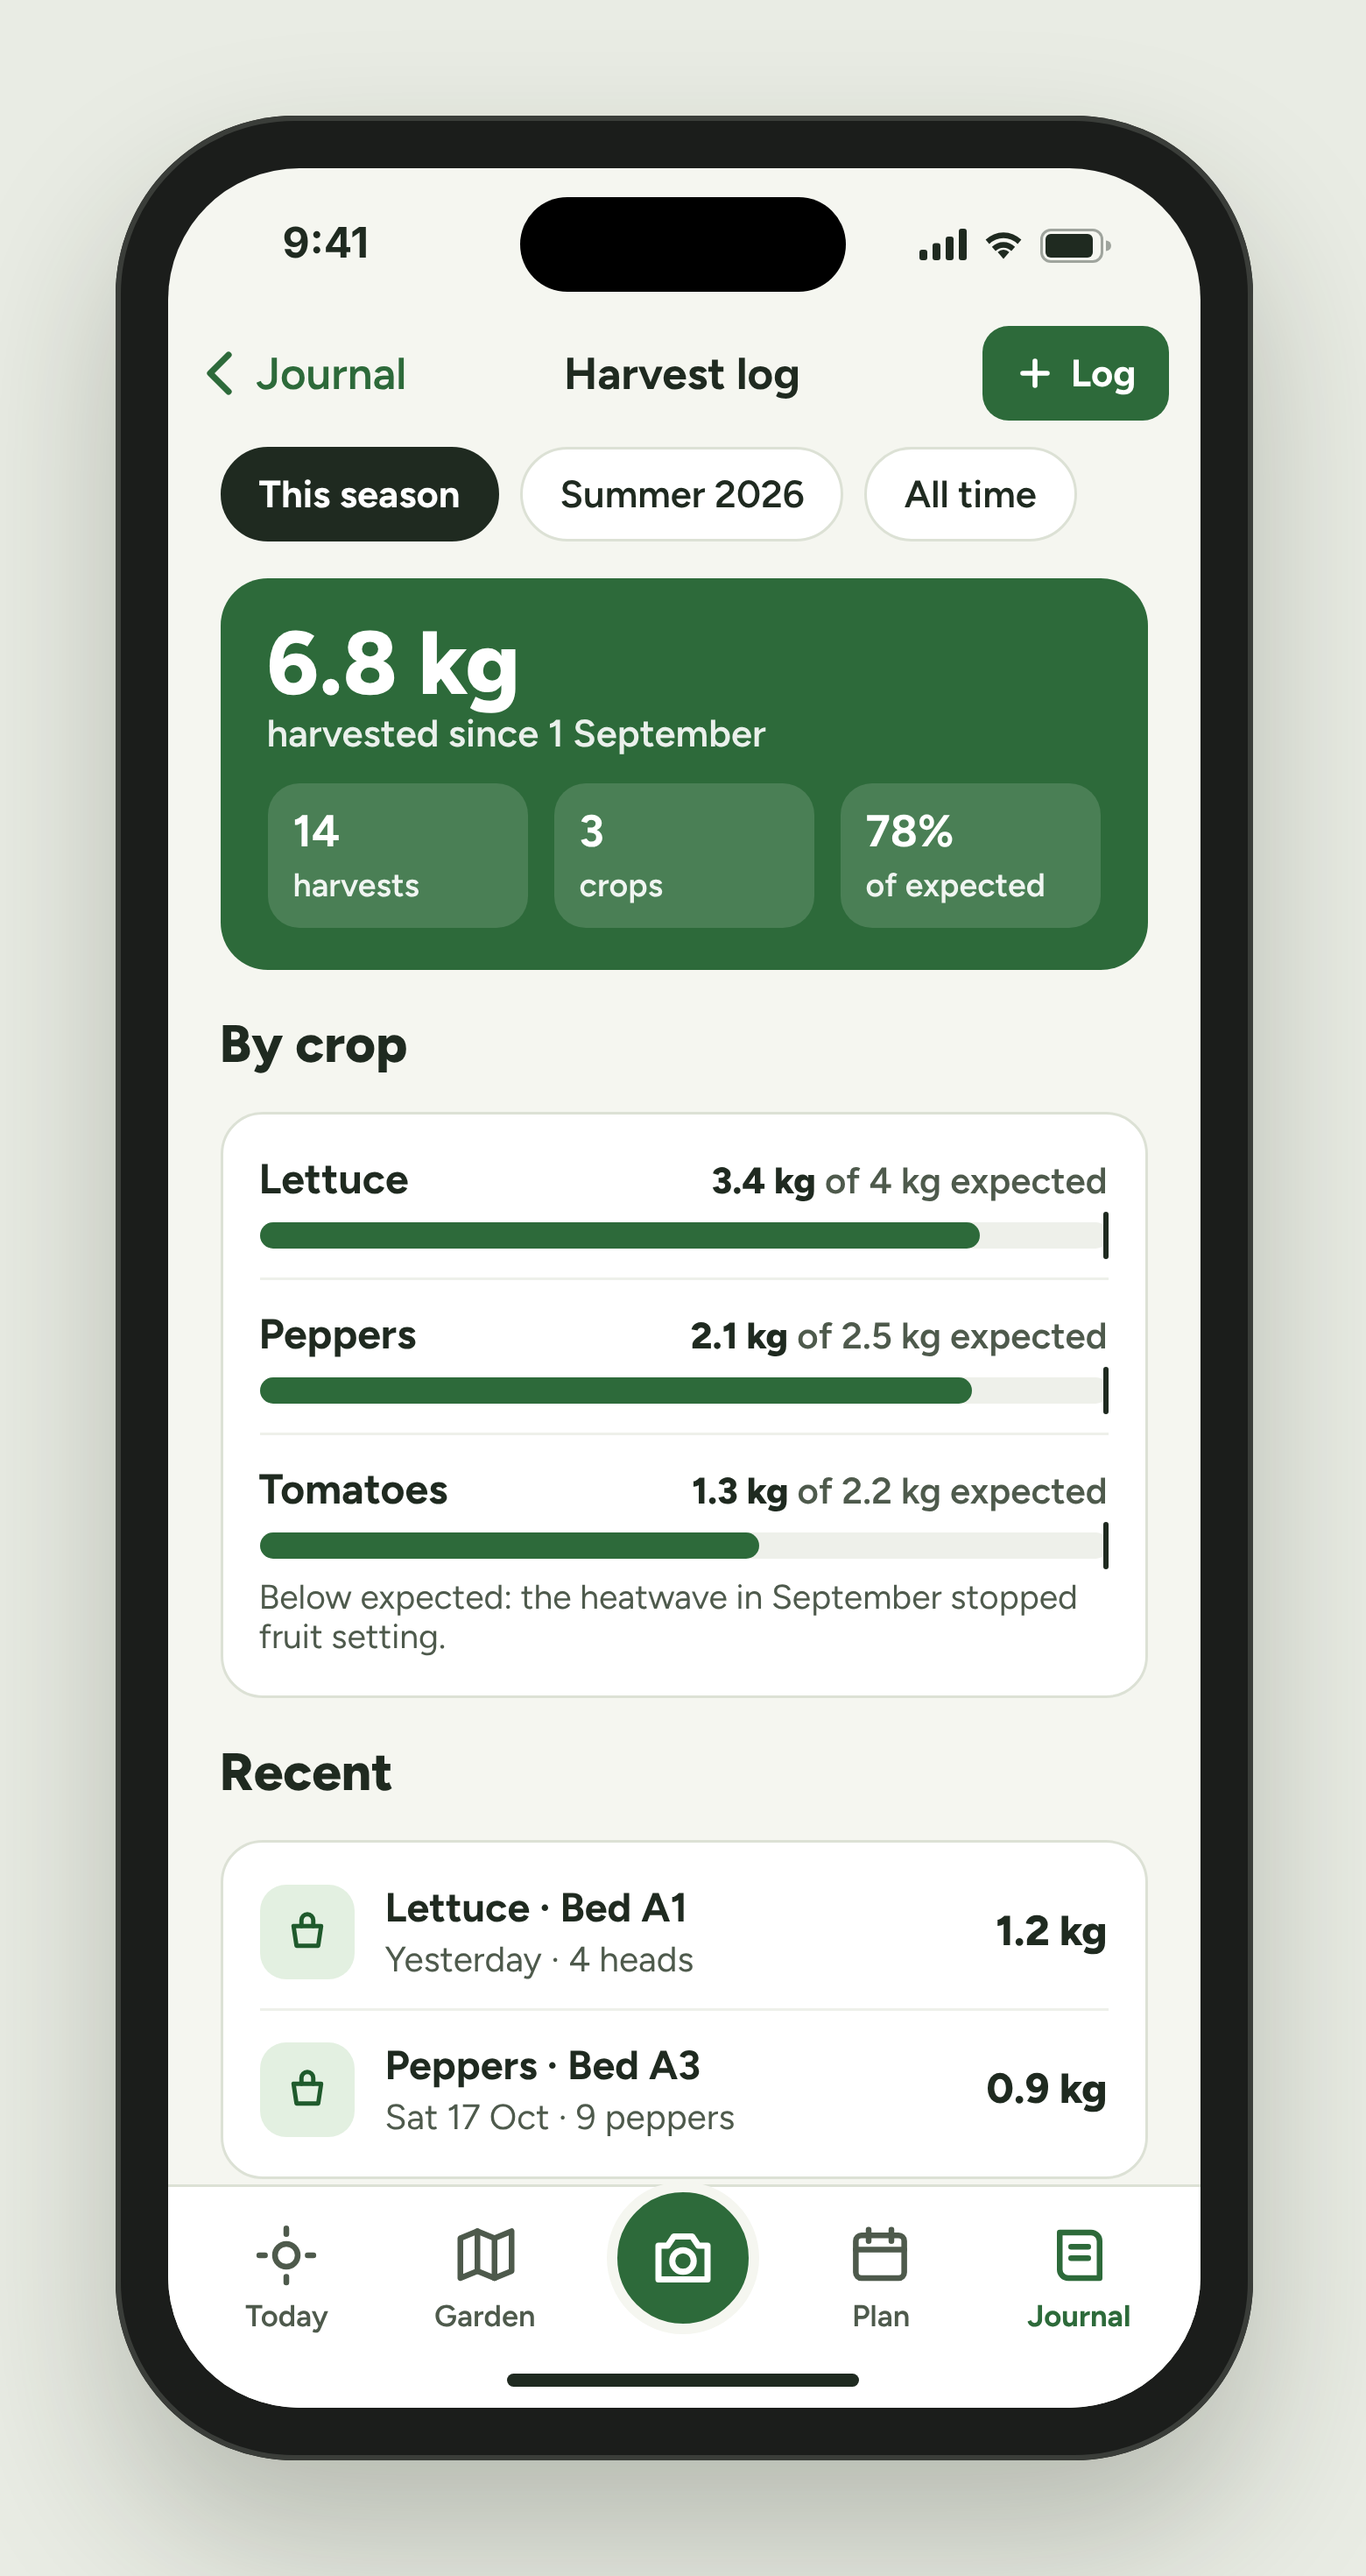
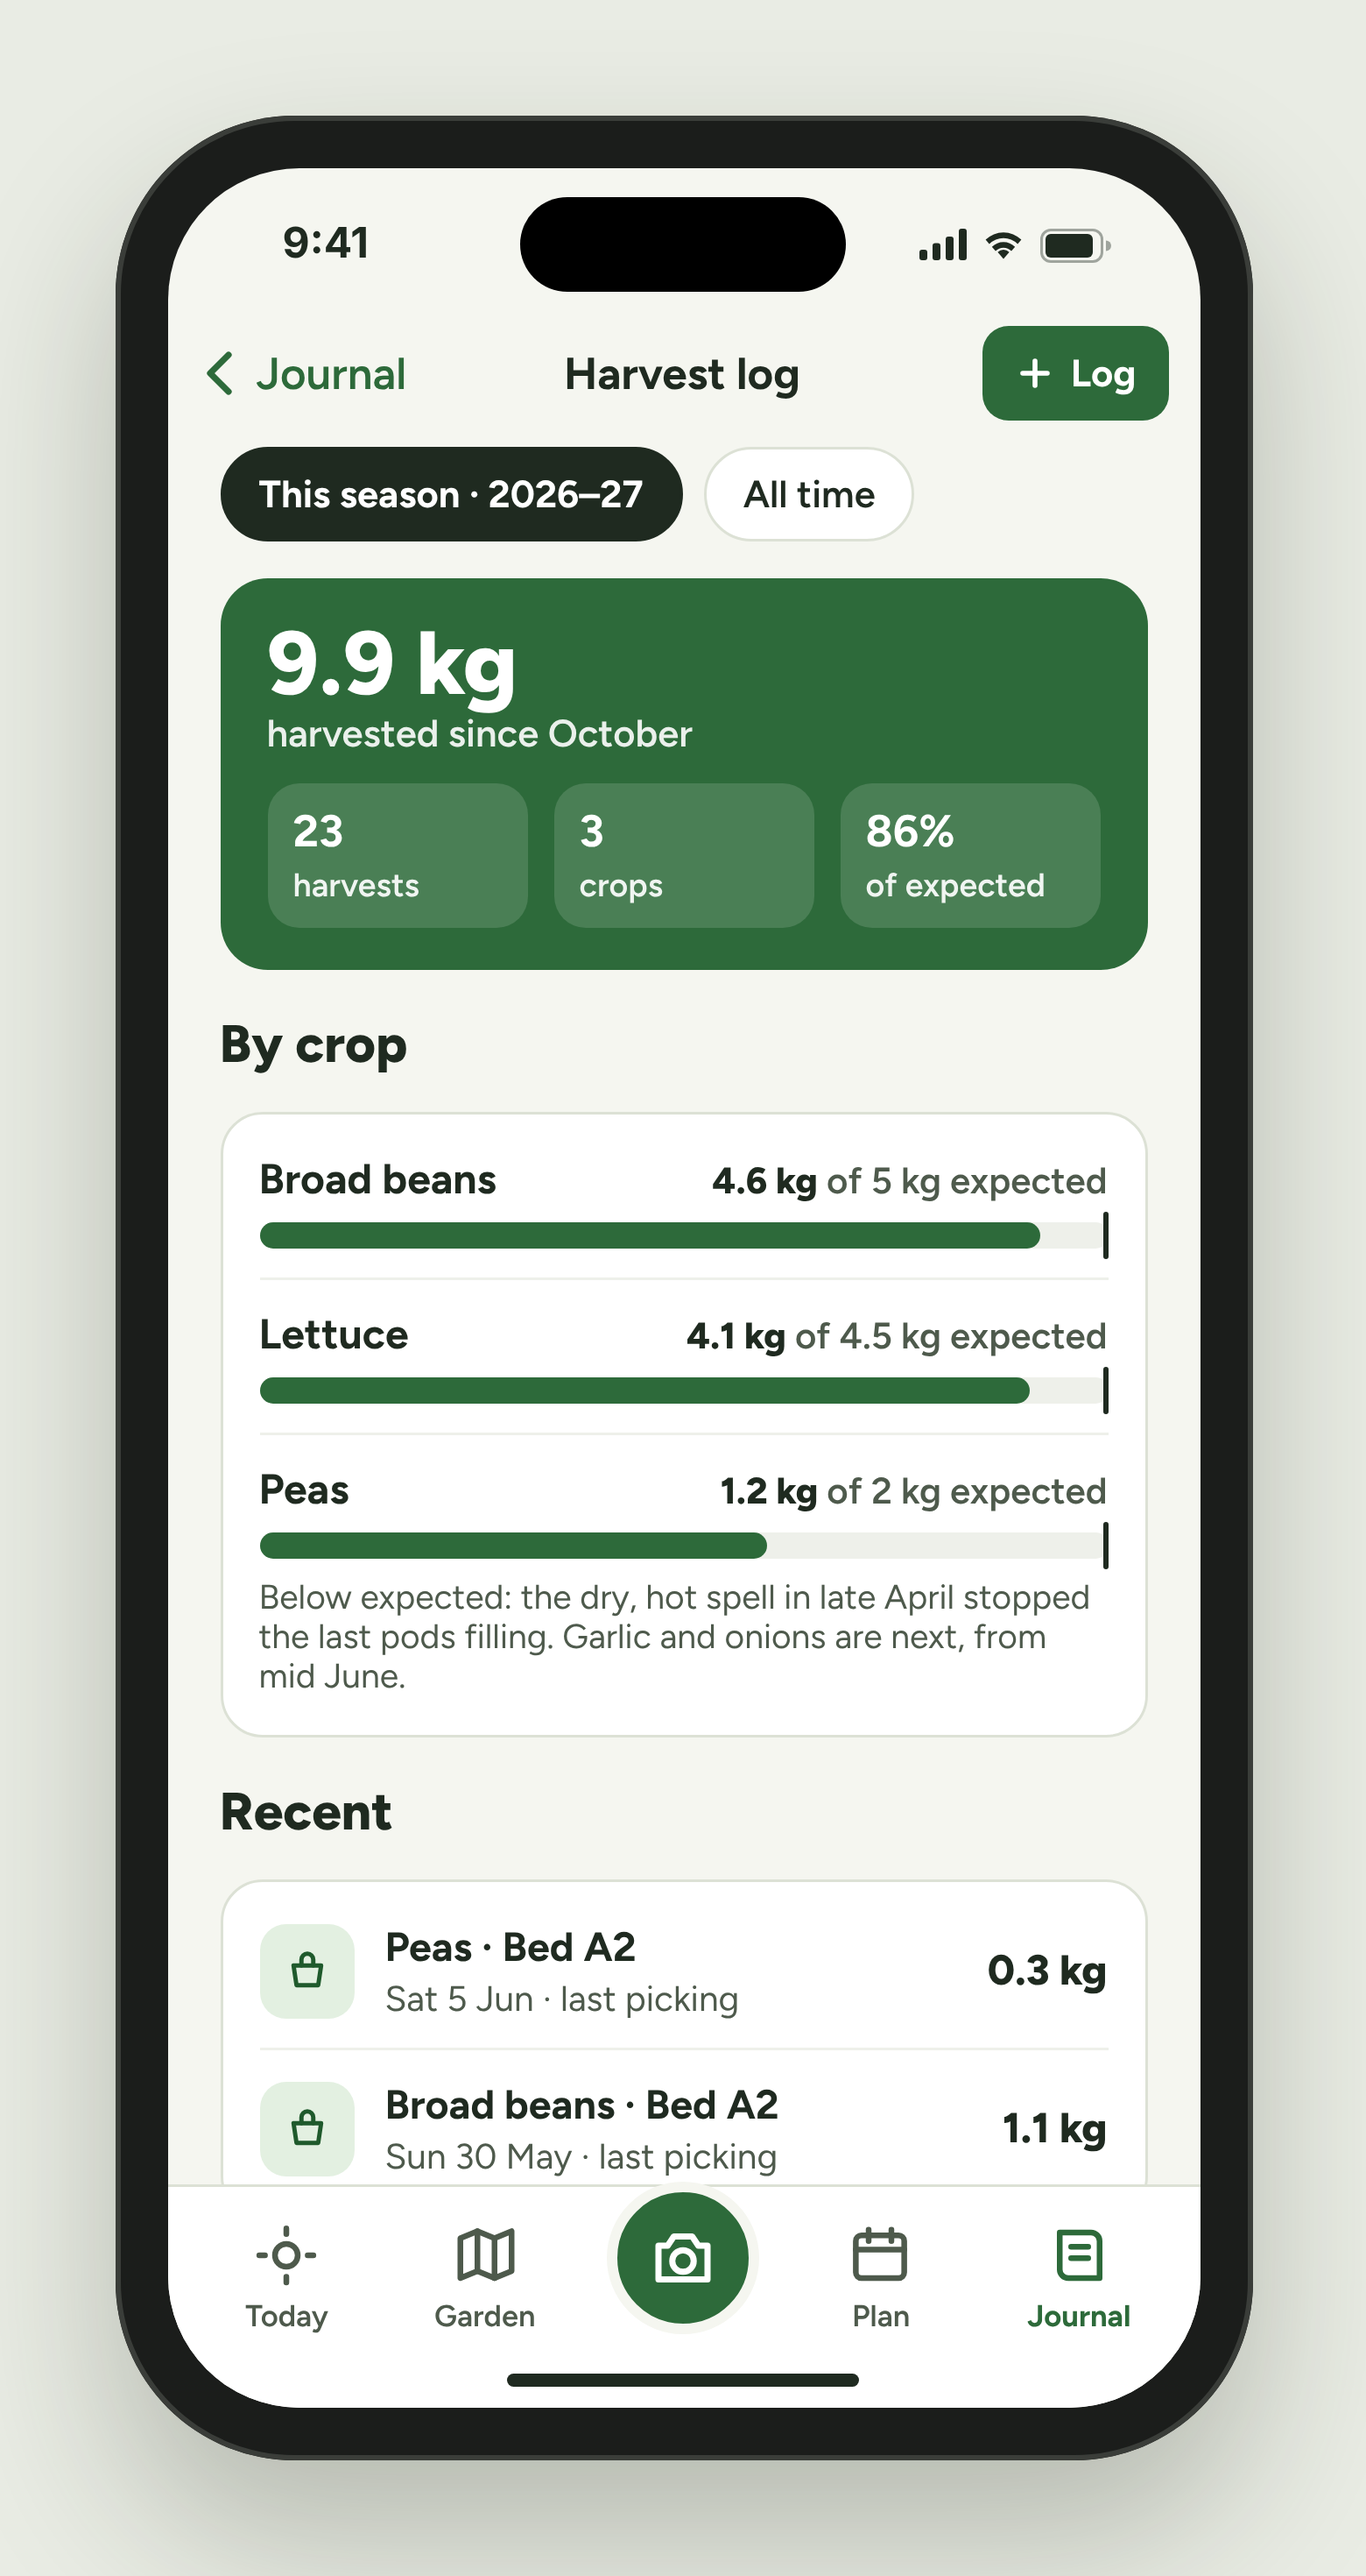
Design F3 harvest log: sample set in June 2027 with this garden's first-season crops
Claude-Session: https://claude.ai/code/session_015NynAjU4naPZwzmeuGazot

diff --git a/design/source/F3-harvest-log.html b/design/source/F3-harvest-log.html
@@ -68,31 +68,31 @@
   </div>
 
   <div class="body">
-    <div class="season"><span class="chip on">This season</span><span class="chip">Summer 2026</span><span class="chip">All time</span></div>
+    <div class="season"><span class="chip on">This season · 2026–27</span><span class="chip">All time</span></div>
 
     <div class="total">
-      <div><div class="big">6.8 kg</div><div class="lbl">harvested since 1 September</div></div>
+      <div><div class="big">9.9 kg</div><div class="lbl">harvested since October</div></div>
       <div class="row">
-        <div class="mini"><b>14</b><span>harvests</span></div>
+        <div class="mini"><b>23</b><span>harvests</span></div>
         <div class="mini"><b>3</b><span>crops</span></div>
-        <div class="mini"><b>78%</b><span>of expected</span></div>
+        <div class="mini"><b>86%</b><span>of expected</span></div>
       </div>
     </div>
 
     <h2>By crop</h2>
     <div class="card">
       <div class="crop">
-        <div class="top"><b>Lettuce</b><span><strong>3.4 kg</strong> of 4 kg expected</span></div>
-        <div class="bar"><i style="width: 85%"></i><em style="left: 100%; margin-left: -2px"></em></div>
+        <div class="top"><b>Broad beans</b><span><strong>4.6 kg</strong> of 5 kg expected</span></div>
+        <div class="bar"><i style="width: 92%"></i><em style="left: 100%; margin-left: -2px"></em></div>
       </div>
       <div class="crop">
-        <div class="top"><b>Peppers</b><span><strong>2.1 kg</strong> of 2.5 kg expected</span></div>
-        <div class="bar"><i style="width: 84%"></i><em style="left: 100%; margin-left: -2px"></em></div>
+        <div class="top"><b>Lettuce</b><span><strong>4.1 kg</strong> of 4.5 kg expected</span></div>
+        <div class="bar"><i style="width: 91%"></i><em style="left: 100%; margin-left: -2px"></em></div>
       </div>
       <div class="crop">
-        <div class="top"><b>Tomatoes</b><span><strong>1.3 kg</strong> of 2.2 kg expected</span></div>
-        <div class="bar"><i style="width: 59%"></i><em style="left: 100%; margin-left: -2px"></em></div>
-        <div class="note">Below expected: the heatwave in September stopped fruit setting.</div>
+        <div class="top"><b>Peas</b><span><strong>1.2 kg</strong> of 2 kg expected</span></div>
+        <div class="bar"><i style="width: 60%"></i><em style="left: 100%; margin-left: -2px"></em></div>
+        <div class="note">Below expected: the dry, hot spell in late April stopped the last pods filling. Garlic and onions are next, from mid June.</div>
       </div>
     </div>
 
@@ -100,13 +100,13 @@
     <div class="card">
       <div class="recent">
         <div class="ic"><svg width="18" height="18" viewBox="0 0 24 24" fill="none" stroke="#1F5A2C" stroke-width="2.2" stroke-linecap="round" stroke-linejoin="round"><path d="M5 9h14l-1.5 10h-11z"/><path d="M9 9V6a3 3 0 0 1 6 0v3"/></svg></div>
-        <div class="t"><b>Lettuce · Bed A1</b><span>Yesterday · 4 heads</span></div>
-        <span class="w">1.2 kg</span>
+        <div class="t"><b>Peas · Bed A2</b><span>Sat 5 Jun · last picking</span></div>
+        <span class="w">0.3 kg</span>
       </div>
       <div class="recent">
         <div class="ic"><svg width="18" height="18" viewBox="0 0 24 24" fill="none" stroke="#1F5A2C" stroke-width="2.2" stroke-linecap="round" stroke-linejoin="round"><path d="M5 9h14l-1.5 10h-11z"/><path d="M9 9V6a3 3 0 0 1 6 0v3"/></svg></div>
-        <div class="t"><b>Peppers · Bed A3</b><span>Sat 17 Oct · 9 peppers</span></div>
-        <span class="w">0.9 kg</span>
+        <div class="t"><b>Broad beans · Bed A2</b><span>Sun 30 May · last picking</span></div>
+        <span class="w">1.1 kg</span>
       </div>
     </div>
   </div>
